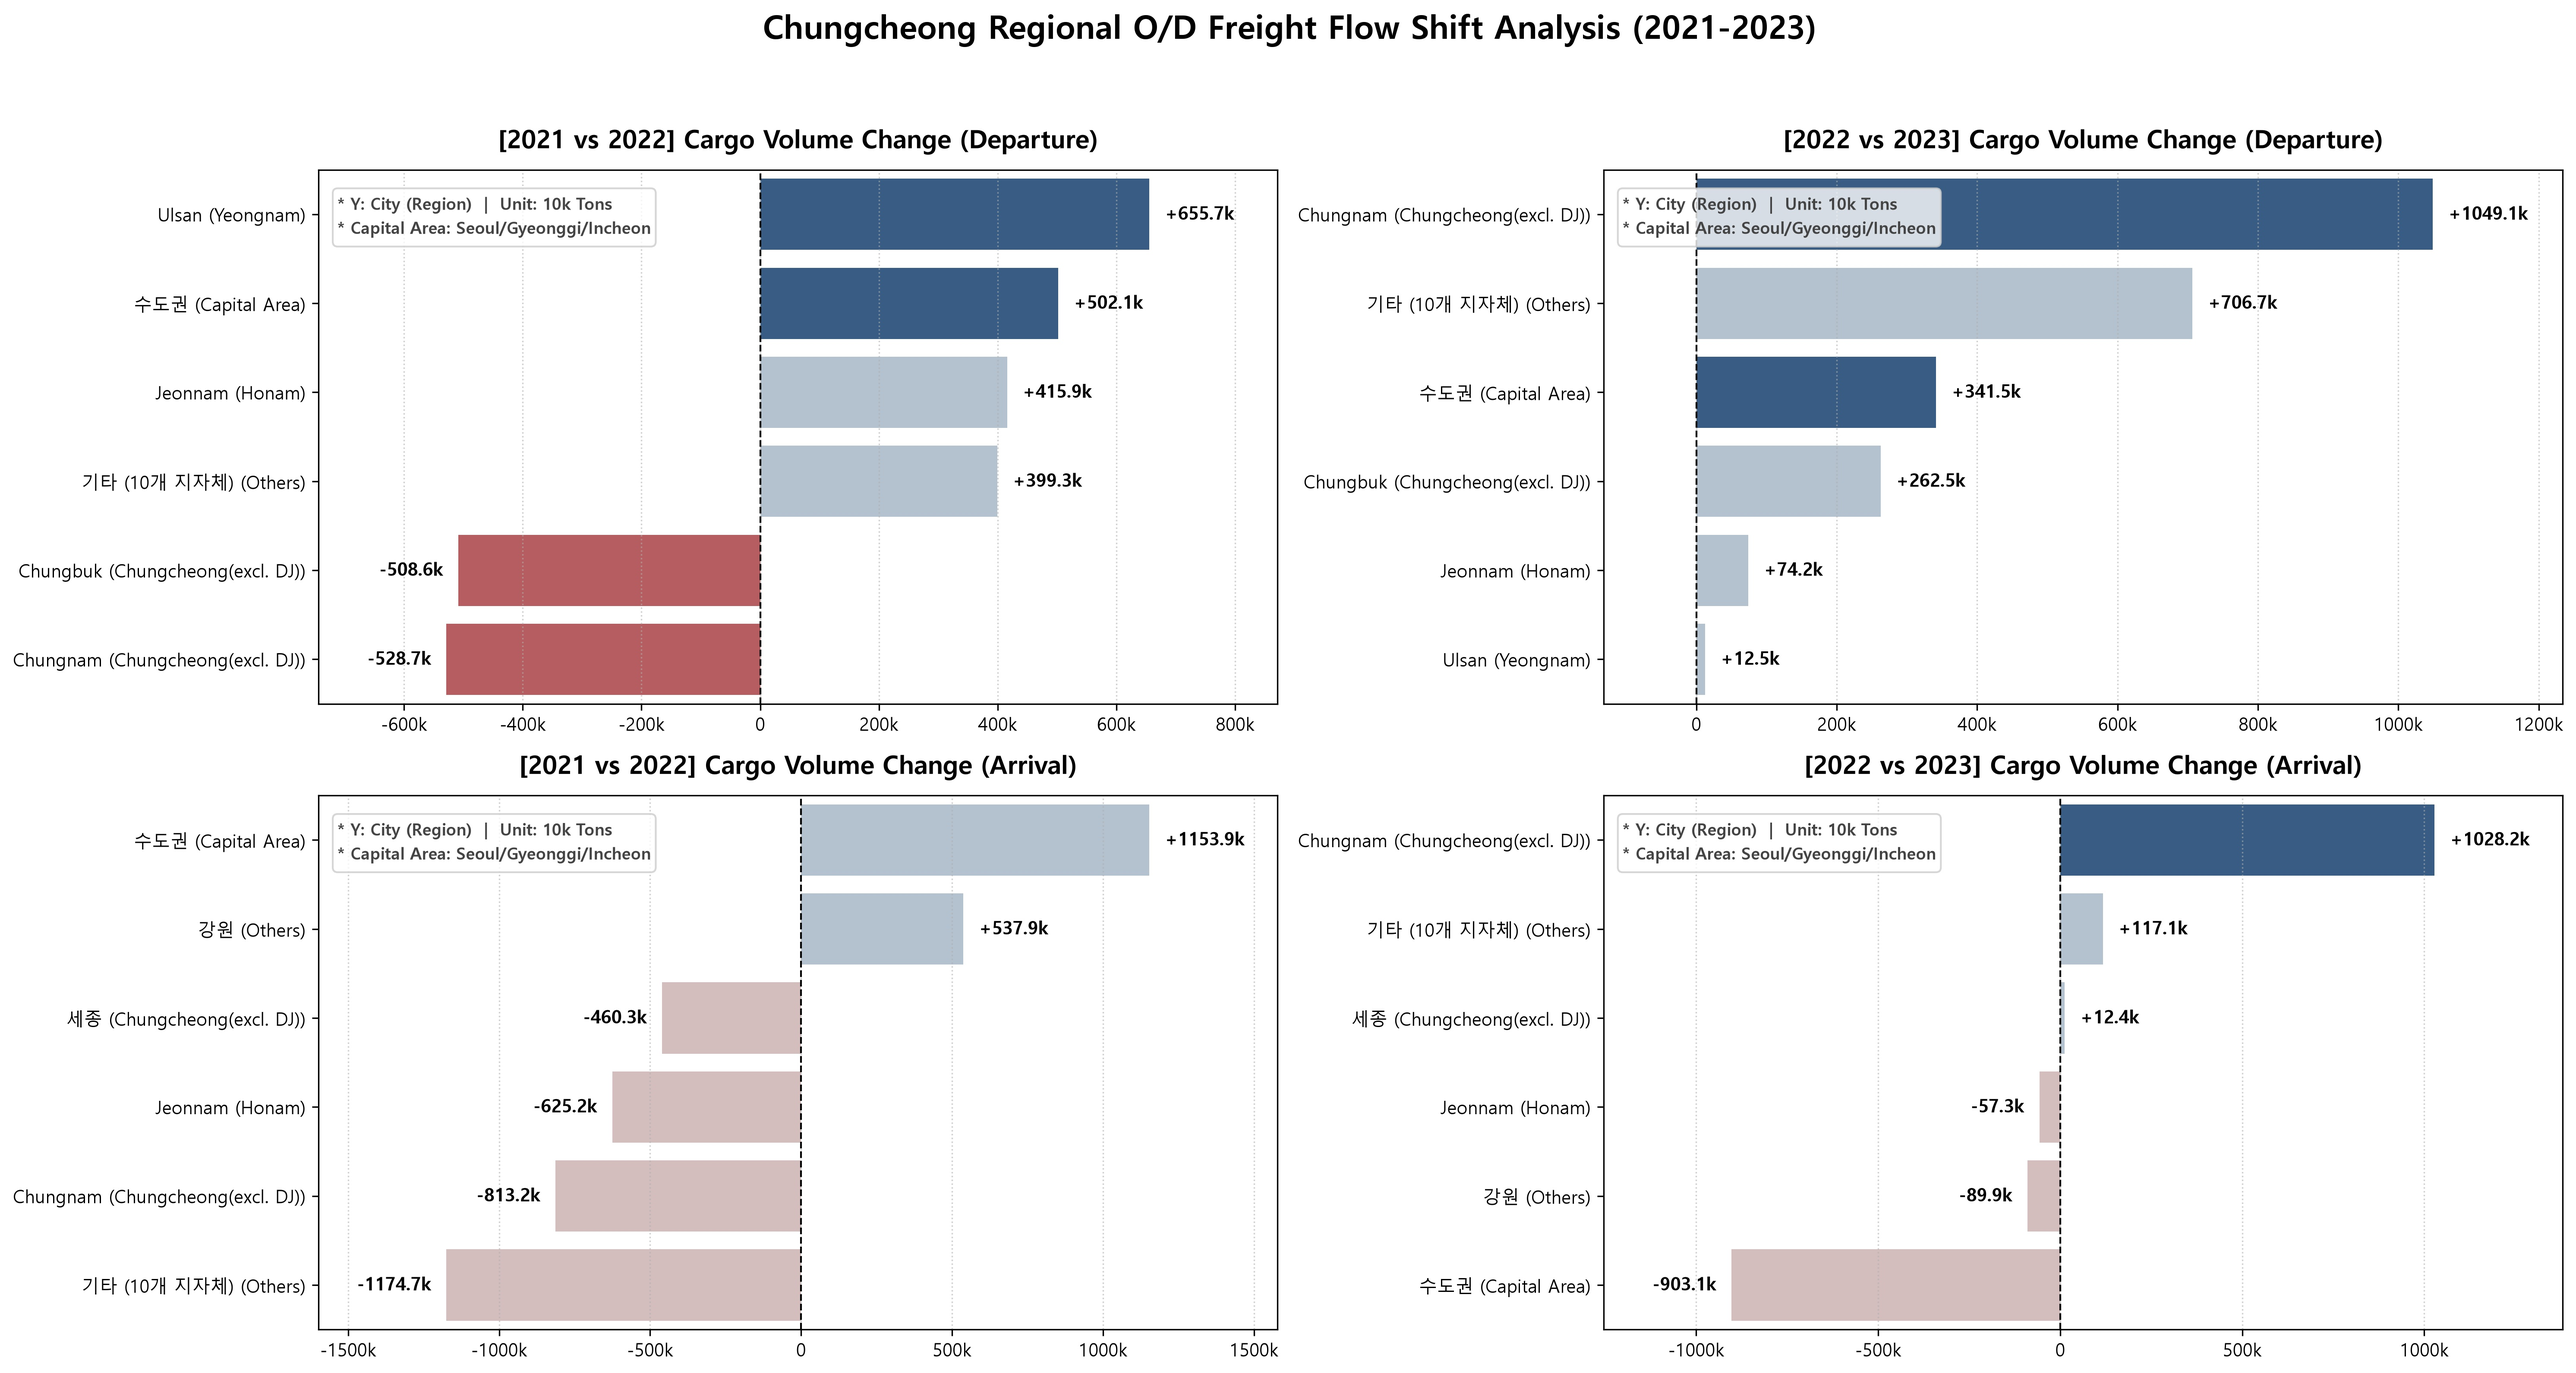
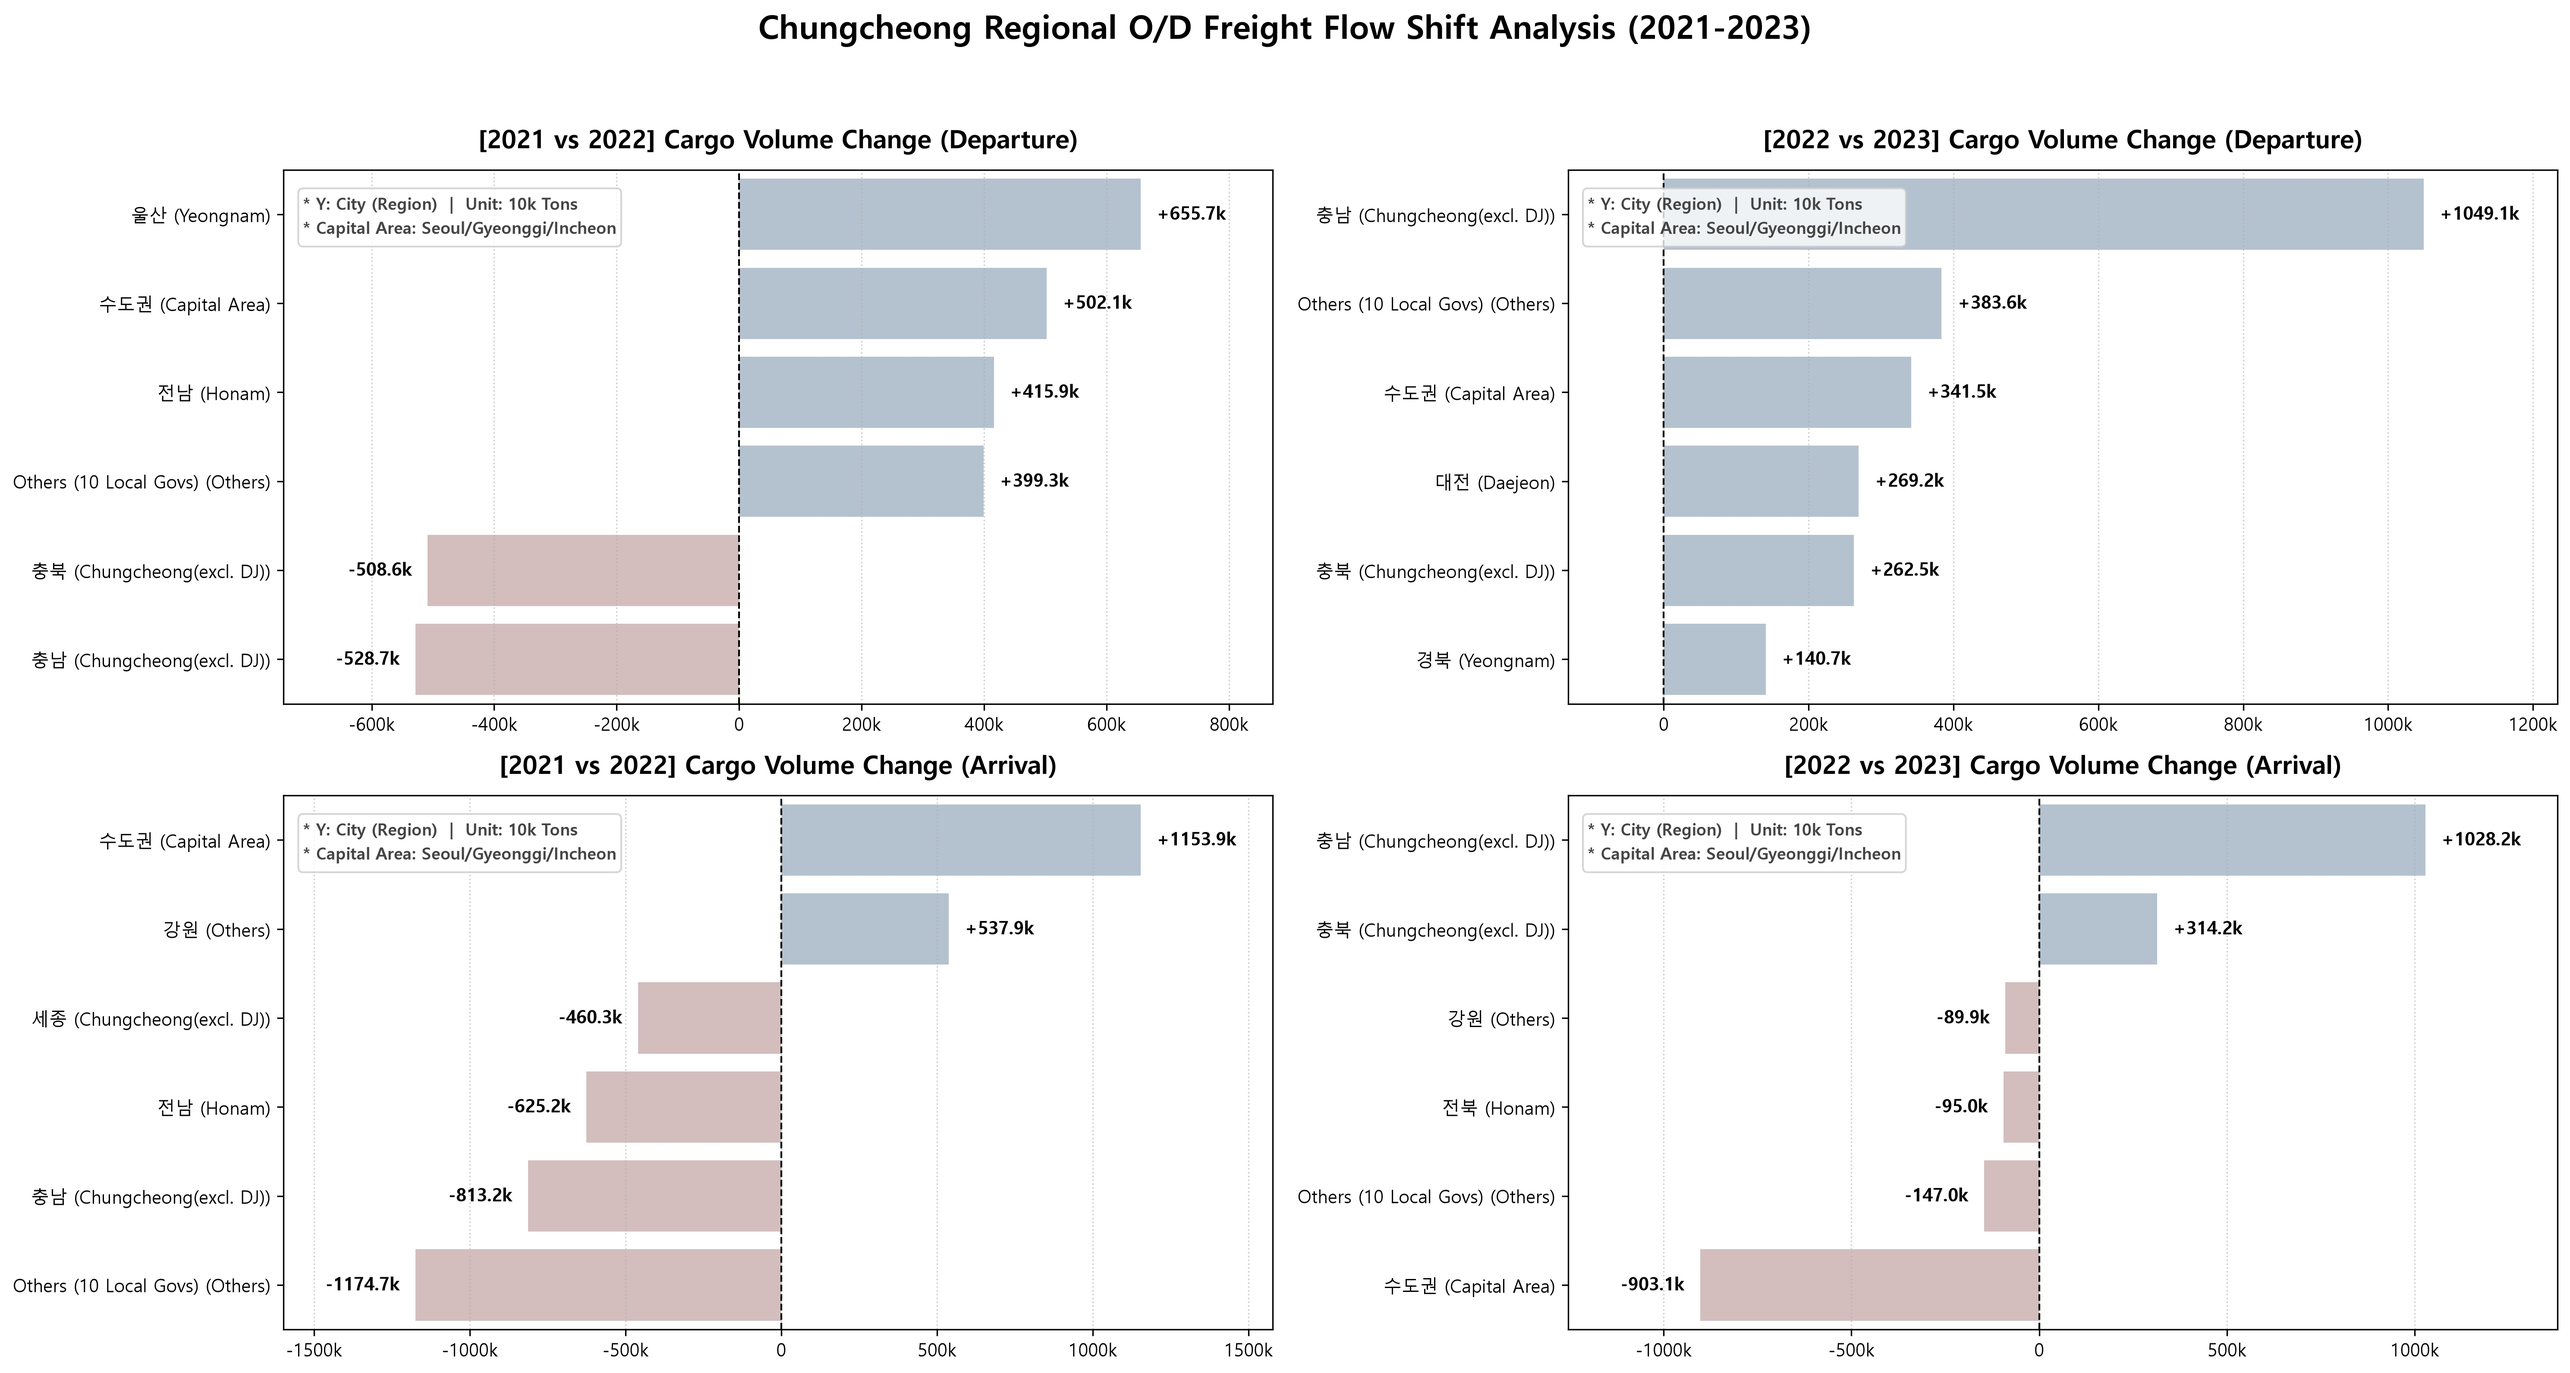
feat: draw raw_meterials_indexed flow graph

diff --git a/src/nlictr_com_shift.py b/src/nlictr_com_shift.py
@@ -1,0 +1,159 @@
+from pathlib import Path
+import matplotlib.pyplot as plt
+import pandas as pd
+import seaborn as sns
+
+# 한글 폰트 설정
+plt.rcParams["font.family"] = "Malgun Gothic"
+plt.rcParams["axes.unicode_minus"] = False
+
+base_dir = Path(".")
+data_dir = base_dir / "data"
+save_dir = base_dir / "output"
+save_dir.mkdir(parents=True, exist_ok=True)
+
+# 1. SQL 추출 결과 데이터 불러오기
+df_raw = pd.read_csv(data_dir / "nlictr_flow_shift.csv")
+
+# 2. '원자재 및 기초소재' 품목만 필터링
+df_mat = df_raw[df_raw["commodity_category"] == "원자재 및 기초소재"].copy()
+
+# 3. Wide-form -> Long-form 변환
+df_long = pd.melt(
+    df_mat,
+    id_vars=["region_kr", "flow_type", "commodity_category"],
+    value_vars=["vol_2020", "vol_2021", "vol_2022", "vol_2023"],
+    var_name="year_str",
+    value_name="cargo_volume",
+)
+
+df_long["year"] = df_long["year_str"].str.replace("vol_", "").astype(int)
+
+# -------------------------------------------------------------
+# 🔥 [핵심] 2020년 = 100 기준 지수화(Indexation) 계산
+# -------------------------------------------------------------
+# 연도 기준 정렬 후 그룹별 첫 번째 값(2020년)으로 나누고 100을 곱함
+df_long = df_long.sort_values(by=["region_kr", "flow_type", "year"])
+df_long["index_val"] = df_long.groupby(["region_kr", "flow_type"])[
+    "cargo_volume"
+].transform(lambda x: (x / x.iloc[0]) * 100.0)
+
+
+# 4. 권역별 지정 색상 설정
+region_colors = {
+    "대전시": "#E63946",  # 대전 강조 (Red)
+    "충청권(대전제외)": "#1D3557",  # 충청권 (Blue)
+    "수도권": "#8D99AE",  # 수도권 (Grey)
+}
+
+flow_types = ["반입", "반출"]
+
+# 1행 2열 서브플롯 생성
+fig, axes = plt.subplots(nrows=1, ncols=2, figsize=(16, 7), sharey=True)
+
+for idx, flow in enumerate(flow_types):
+    ax = axes[idx]
+    sub_df = df_long[df_long["flow_type"] == flow]
+
+    for reg in ["수도권", "충청권(대전제외)", "대전시"]:
+        reg_df = sub_df[sub_df["region_kr"] == reg]
+
+        ax.plot(
+            reg_df["year"],
+            reg_df["index_val"],  # 지수화 데이터 Plotting
+            marker="o",
+            markersize=6,
+            linewidth=2.0,
+            color=region_colors[reg],
+            label=reg,
+        )
+
+    # 100 기준선(Base Line) 표시
+    ax.axhline(100, color="gray", linestyle="--", linewidth=1, alpha=0.7)
+
+    # 서브플롯 스타일
+    ax.set_title(
+        f"[원자재 및 기초소재] {flow} 물동량 지수 추이 (2020년=100)",
+        fontsize=13,
+        fontweight="bold",
+        pad=12,
+    )
+    ax.set_xlabel("연도", fontsize=11)
+    ax.set_ylabel("물동량 지수 (2020=100)" if idx == 0 else "", fontsize=11)
+    ax.set_xticks([2020, 2021, 2022, 2023])
+    ax.grid(True, linestyle=":", alpha=0.6)
+
+# -------------------------------------------------------------
+# 단일 외부 범례 우측 바깥 배치
+# -------------------------------------------------------------
+handles, labels = axes[0].get_legend_handles_labels()
+fig.legend(
+    handles,
+    labels,
+    title="권역",
+    loc="center left",
+    bbox_to_anchor=(0.89, 0.5),
+    frameon=True,
+    fontsize=10,
+    title_fontsize=11,
+)
+
+fig.suptitle(
+    "원자재 및 기초소재 권역별 상대적 물동량 변동 흐름 (2020-2023 지수화)",
+    fontsize=16,
+    fontweight="bold",
+    y=0.98,
+)
+
+plt.tight_layout(rect=[0, 0.03, 0.90, 0.95])
+
+# 2020년과 2023년 원자재 반출 톤수 비교 (예시)
+raw_2020 = df_long[
+    (df_long["year"] == 2020)
+    & (df_long["commodity_category"] == "원자재 및 기초소재")
+    & (df_long["flow_type"] == "반출")
+]
+raw_2023 = df_long[
+    (df_long["year"] == 2023)
+    & (df_long["commodity_category"] == "원자재 및 기초소재")
+    & (df_long["flow_type"] == "반출")
+]
+
+dj_diff = (
+    raw_2020[raw_2020["region_kr"] == "대전시"]["cargo_volume"].values[0]
+    - raw_2023[raw_2023["region_kr"] == "대전시"]["cargo_volume"].values[0]
+)
+others_diff = (
+    raw_2023[raw_2023["region_kr"] != "대전시"]["cargo_volume"].sum()
+    - raw_2020[raw_2020["region_kr"] != "대전시"]["cargo_volume"].sum()
+)
+
+summary_text = (
+    f"2020년 대비 2023년 원자재 반출량 변동 비교\n"
+    f"• 대전시 반출 감소량:  -{dj_diff/10000:.1f}만 톤 (대전 공급망 급감)\n"
+    f"• 타 권역(수도권+충청권) 증가량: +{others_diff/10000:.1f}만 톤 (타 지역 반출 확장)"
+)
+
+# 하단에 텍스트 박스 배치
+fig.text(
+    0.5,
+    0.02,
+    summary_text,
+    ha="center",
+    va="bottom",
+    fontsize=11,
+    fontweight="bold",
+    bbox=dict(
+        boxstyle="round,pad=0.8",
+        facecolor="#F8F9FA",
+        edgecolor="#E63946",
+        linewidth=1.5,
+    ),
+)
+
+# 텍스트 박스 공간 확보를 위해 rect 조절
+plt.tight_layout(rect=[0, 0.12, 0.90, 0.95])
+
+save_path = save_dir / "12_raw_materials_indexed_flow.jpg"
+plt.savefig(save_path, dpi=300, bbox_inches="tight")
+plt.close()

diff --git a/src/nlic_chung_cargo_flow_shift_vs.py b/src/nlic_chung_cargo_flow_shift_vs.py
@@ -14,33 +14,13 @@ data_dir = base_dir / "data"
 save_dir = base_dir / "output"
 save_dir.mkdir(parents=True, exist_ok=True)
 
-# 1. Load Data
+# 1. Load Data (UNION ALL 쿼리 결과 CSV)
 df_raw = pd.read_csv(data_dir / "nlic_chung_cargo_volume_shift.csv")
 
-# CSV 내 city_en 컬럼의 한글 데이터를 정식 영문 도시명으로 올바르게 보정
-CITY_EN_MAP = {
-    "기타 (11개 지자체)": "Others (11 Local Govs)",
-    "경기": "Gyeonggi",
-    "서울": "Seoul",
-    "충남": "Chungnam",
-    "충북": "Chungbuk",
-    "전남": "Jeonnam",
-    "울산": "Ulsan",
-}
-df_raw["city_en_clean"] = (
-    df_raw["target_city"].map(CITY_EN_MAP).fillna(df_raw["target_city"])
-)
-
-# 연도별 변동 데이터프레임 구조화
-df_21_22 = df_raw.copy()
-df_21_22["gap_vol"] = df_21_22["gap_22_21_vol"]
-
-df_22_23 = df_raw.copy()
-df_22_23["gap_vol"] = df_22_23["gap_23_22_vol"]
-
+# 연도별 변동 데이터 분리 (period_type 기준)
 data_map = {
-    "21_22": df_21_22,
-    "22_23": df_22_23,
+    "21_22": df_raw[df_raw["period_type"] == "2021-2022"].copy(),
+    "22_23": df_raw[df_raw["period_type"] == "2022-2023"].copy(),
 }
 
 # Subplot 위치 매핑 설정
@@ -52,14 +32,14 @@ highlight_map = {
     "ko": {
         ("21_22", "출발"): ["울산", "수도권", "충남", "충북"],
         ("21_22", "도착"): ["수도권", "충남"],
-        ("22_23", "출발"): ["충남", "수도권"],
+        ("22_23", "출발"): ["충남", "수도권", "대전"],
         ("22_23", "도착"): ["충남", "수도권"],
     },
     "en": {
         ("21_22", "출발"): ["Ulsan", "Capital Area", "Chungnam", "Chungbuk"],
-        ("21_22", "도착"): ["Gyeonggi", "Seoul"],
-        ("22_23", "출발"): ["Chungnam", "Capital Area"],
-        ("22_23", "도착"): ["Chungnam", "Gyeonggi"],
+        ("21_22", "도착"): ["Capital Area"],
+        ("22_23", "출발"): ["Chungnam", "Capital Area", "Daejeon"],
+        ("22_23", "도착"): ["Chungnam", "Capital Area"],
     },
 }
 
@@ -75,19 +55,19 @@ I18N = {
         "type_map": {"출발": "출발", "도착": "도착"},
         "year_map": {"21_22": "2021 vs 2022", "22_23": "2022 vs 2023"},
         "info_box": "* Y: 도시 (권역)  |  단위: 만 톤\n* 수도권: 서울/경기/인천 통합",
-        "filename": "12_Chungcheong_cargo_flow_shift_dashboard_2x2_ko.jpg",
+        "filename": "11_Chungcheong_cargo_flow_shift_dashboard_2x2_ko.jpg",
     },
     "en": {
         "title_main": "Chungcheong Regional O/D Freight Flow Shift Analysis (2021-2023)",
         "subtitle": "[{year}] Cargo Volume Change ({type})",
         "unit_fmt": "{val:+.1f}k",
         "xaxis_fmt": lambda x, pos: f"{int(x/10000)}k" if x != 0 else "0",
-        "city_col": "city_en_clean",  # 올바르게 보정된 영문 도시 컬럼 사용
+        "city_col": "city_en",
         "region_col": "region_en",
         "type_map": {"출발": "Departure", "도착": "Arrival"},
         "year_map": {"21_22": "2021 vs 2022", "22_23": "2022 vs 2023"},
         "info_box": "* Y: City (Region)  |  Unit: 10k Tons\n* Capital Area: Seoul/Gyeonggi/Incheon",
-        "filename": "12_Chungcheong_cargo_flow_shift_dashboard_2x2_en.jpg",
+        "filename": "11_Chungcheong_cargo_flow_shift_dashboard_2x2_en.jpg",
     },
 }
 
@@ -126,16 +106,15 @@ for lang in ["ko", "en"]:
             current_highlights = highlight_map[lang].get((year_key, gubun), [])
 
             # 바 색상 지정 (강조 도시는 진한 색, 일반 도시는 연한 색)
+            # 바 색상 지정 (강조 도시는 진한 색, 일반 도시는 연한 색)
             colors = []
             for idx, row in plot_data.iterrows():
-                city_name = str(row[c_col])
-                full_label = str(row["도시_권역"])
+                city_name = str(row[c_col]).strip().lower()
                 val = row["gap_vol"]
 
+                # 권역(region)은 제외하고 오직 순수 도시명(city_name)에 대해서만 완전 일치 또는 매칭 검사
                 is_highlighted = any(
-                    hl.strip().lower() in city_name.strip().lower()
-                    or hl.strip().lower() in full_label.strip().lower()
-                    for hl in current_highlights
+                    hl.strip().lower() in city_name for hl in current_highlights
                 )
 
                 if is_highlighted:

diff --git a/src/upload.py b/src/upload.py
@@ -42,10 +42,9 @@ def upload_csv_to_db(file_name: str, table_name: str = None):
 
 
 if __name__ == "__main__":
-    # 터미널에서 'python upload.py nlictr_com_cat.csv' 형태로 실행 가능
     if len(sys.argv) > 1:
         target_file = sys.argv[1]
         upload_csv_to_db(target_file)
     else:
         # 인자 없이 실행 시 기본 파일 업로드
-        upload_csv_to_db("nlictr_com_cat.csv")
+        upload_csv_to_db("nlic_flow_shift.csv")
